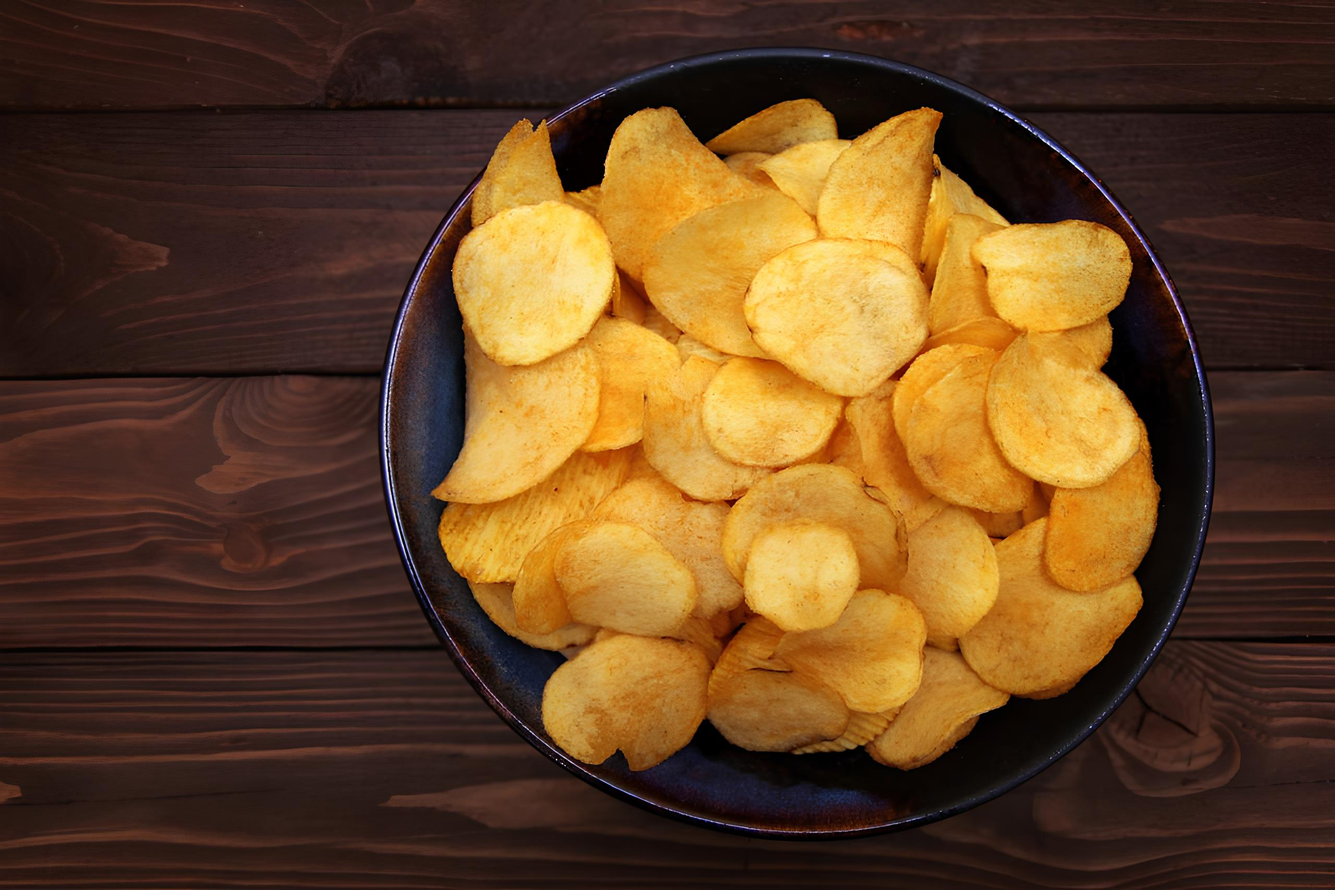
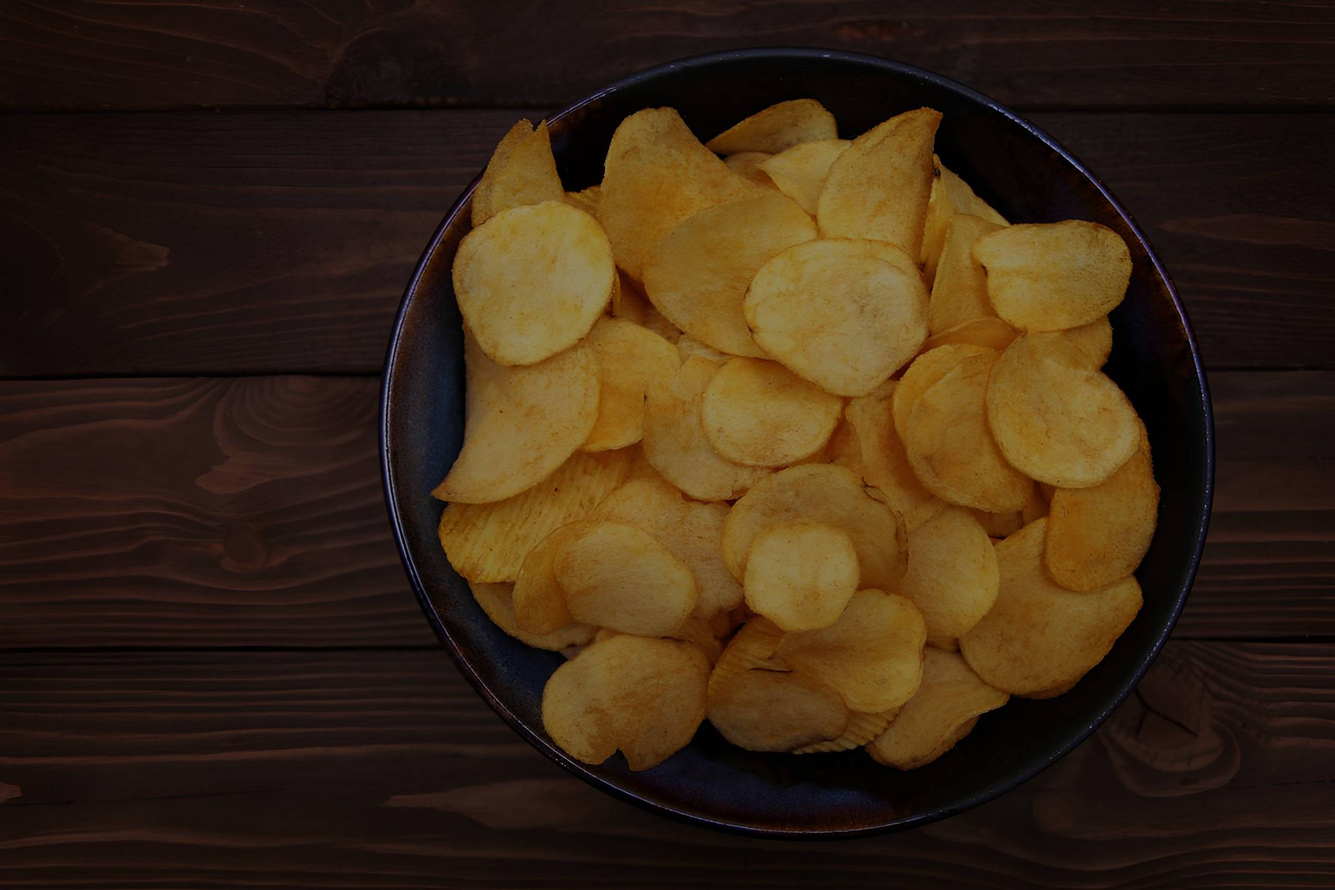
update tampilan 2

diff --git a/style.css b/style.css
@@ -2,6 +2,15 @@
     margin: 0;
     padding:-0;
 }
+body{
+    background-position: center;
+    background-image: url(assets/main-background.jpeg);
+    background-size: contain;
+    font-family: "Rubik", serif;
+  font-optical-sizing: auto;
+  font-weight: <weight>;
+  font-style: normal;
+}
 /* =================================================================================================================================================================================================
 ============ NAVBAR STYLE ===================================================================================================================================================================
 ================================================================================================================================================================================================== */
@@ -36,7 +45,7 @@
 }
 
 .navbar-item > .about-navbar{
-    font-family: Verdana, Geneva, Tahoma, sans-serif;
+    /* font-family: Verdana, Geneva, Tahoma, sans-serif; */
     text-decoration: none;
     color: rgb(201, 67, 66);
 }
@@ -53,6 +62,10 @@
 /* =================================================================================================================================================================================================
 ============ NAVBAR STYLE END ===================================================================================================================================================================
 ================================================================================================================================================================================================== */
+
+
+
+
 
 
 
@@ -96,19 +109,19 @@
     flex-direction: column;
     justify-content: center;
     align-items: center;
-    font-family: Verdana, Geneva, Tahoma, sans-serif;
-    /* background-color: rgb(201, 67, 66); */
+    /* font-family: Verdana, Geneva, Tahoma, sans-serif; */
+    background-color: white;
 }
 
 .about-wrapper > .about-text{
     width: 900px;
-    font-family: Verdana, Geneva, Tahoma, sans-serif;
+    /* font-family: Verdana, Geneva, Tahoma, sans-serif; */
     margin-top: 100px;
     margin-left: 20px;
 }
 
 .about-wrapper > .about-text > .about-title{
-    font-family: Verdana, Geneva, Tahoma, sans-serif;
+    /* font-family: Verdana, Geneva, Tahoma, sans-serif; */
     text-transform: capitalize;
     color: black;
     text-align: center;
@@ -117,7 +130,7 @@
 
 .about-wrapper > .about-text > .about-info{
     font-size: 20px;
-    font-family: Verdana, Geneva, Tahoma, sans-serif;
+    /* font-family: Verdana, Geneva, Tahoma, sans-serif; */
     text-transform: capitalize;
     color: black;
     text-align: center;
@@ -132,14 +145,15 @@
     width: 400px;
     font-size: 20px;
     text-align: center;
-    font-family: Verdana, Geneva, Tahoma, sans-serif;
+   
+    /* font-family: Verdana, Geneva, Tahoma, sans-serif; */
 }
 
 .mark-text{
     padding: 5px;
     border-radius: 5px;
     color: black;
-    background-color: rgb(242, 188, 40);
+    background-color: rgb(201, 67, 66);
 }
 /* =================================================================================================================================================================================================
 ============ ABOUT STYLE END ===================================================================================================================================================================
@@ -162,10 +176,9 @@
 ============ PRODUCT STYLE ===================================================================================================================================================================
 ================================================================================================================================================================================================== */
 .product-wrapper{
-    font-family: Verdana, Geneva, Tahoma, sans-serif;
+    /* font-family: Verdana, Geneva, Tahoma, sans-serif; */
     padding-left: 50px;
     padding-right: 50px;
-    /* background-color:  rgb(242, 188, 40); */
 }
 
 .product-text{
@@ -180,9 +193,14 @@
     border-radius: 10px ;
     display: flex;
     justify-content: space-between;
+    background-color:  transparent;
+    backdrop-filter: blur(5px);
 }
 
 .singkong-h1{
+    font-family: "Charm", serif;
+  font-weight: 700;
+  font-style: normal;
     color: rgb(201, 67, 66) ;
 }
 
@@ -192,6 +210,15 @@
     border-radius: 10px ;
     display: flex;
     justify-content: space-between;
+    background-color:  transparent;
+    backdrop-filter: blur(5px);
+}
+
+.pangsit-h1{
+    font-family: "Charm", serif;
+    font-weight: 700;
+    font-style: normal;
+    color: rgb(242, 188, 40);
 }
 
 .peyek{
@@ -200,6 +227,15 @@
     border-radius: 10px ;
     display: flex;
     justify-content: space-between;
+    background-color:  transparent;
+    backdrop-filter: blur(5px);
+}
+
+.peyek-h1{
+    font-family: "Charm", serif;
+    font-weight: 700;
+    font-style: normal;
+      color: rgb(201, 67, 66) ;
 }
 
 .basreng{
@@ -209,6 +245,15 @@
     border-radius: 10px ;
     display: flex;
     justify-content: space-between;
+    background-color:  transparent;
+    backdrop-filter: blur(5px);
+}
+
+.basreng-h1{
+    font-family: "Charm", serif;
+    font-weight: 700;
+    font-style: normal;
+    color: rgb(242, 188, 40);
 }
 
 
@@ -286,8 +331,8 @@
     background-position: center;
   background-repeat: no-repeat;
   background-size: cover;
-    font-family: Verdana, Geneva, Tahoma, sans-serif;
 }
+
 
 .contact-teks{
     color: white;
@@ -303,12 +348,13 @@
 }
 
 .btn1{
-    border: 2px solid white;
+    border: 1px solid white;
     border-radius: 10px;
     padding: 10px;
     color: white;
     font-weight: bold;
     background-color: transparent;
+    backdrop-filter: blur(5px);
 }
 
 
@@ -343,9 +389,10 @@
     display: flex;
     justify-content: space-between;
     align-items: center;
-  font-family: Verdana, Geneva, Tahoma, sans-serif;
+  /* font-family: Verdana, Geneva, Tahoma, sans-serif; */
   padding-right: 20px;
   padding-left: 20px;
+  background-color: white;
 }
 
 .footer-sticker{

diff --git a/index.html b/index.html
@@ -8,7 +8,12 @@
     <link rel="stylesheet" href="style.css">
     <link rel="preconnect" href="https://fonts.googleapis.com">
 <link rel="preconnect" href="https://fonts.gstatic.com" crossorigin>
-<link href="https://cdn.jsdelivr.net/npm/bootstrap@5.3.3/dist/css/bootstrap.min.css" rel="stylesheet" integrity="sha384-QWTKZyjpPEjISv5WaRU9OFeRpok6YctnYmDr5pNlyT2bRjXh0JMhjY6hW+ALEwIH" crossorigin="anonymous">
+<link rel="preconnect" href="https://fonts.googleapis.com">
+<link rel="preconnect" href="https://fonts.gstatic.com" crossorigin>
+<link rel="preconnect" href="https://fonts.googleapis.com">
+<link rel="preconnect" href="https://fonts.gstatic.com" crossorigin>
+<link href="https://fonts.googleapis.com/css2?family=Charm:wght@400;700&family=Rubik:wght@300..900&display=swap" rel="stylesheet">
+<link href="https://fonts.googleapis.com/css2?family=Rubik:ital,wght@0,300..900;1,300..900&display=swap" rel="stylesheet">
 <link rel="stylesheet" href="https://cdnjs.cloudflare.com/ajax/libs/font-awesome/6.7.1/css/all.min.css" integrity="sha512-5Hs3dF2AEPkpNAR7UiOHba+lRSJNeM2ECkwxUIxC1Q/FLycGTbNapWXB4tP889k5T5Ju8fs4b1P5z/iB4nMfSQ==" crossorigin="anonymous" referrerpolicy="no-referrer" />
 </head>
 <body>
@@ -22,8 +27,8 @@
           <a class="navbar-brand fs-3 fw-bold" href="#"><img src="assets/brand.png" alt="" width="100" height="50" ></a>
         </div>
         <div class="navbar-item">
-          <a class="about-navbar fs-5 fw-bold" href="#">ABOUT</a>
-          <a class="product-navbar fs-5 fw-bold" href="product.html">PRODUCT</a>
+          <a class="about-navbar fs-5 fw-bold" href="#">HOME</a>
+          <a class="product-navbar fs-5 fw-bold" href="product.html">SHOP</a>
         </div>
       </div>
 <!-- =================================================================================================================================================================================================
@@ -36,6 +41,16 @@
 
 
 
+
+
+
+
+
+
+
+<!-- =================================================================================================================================================================================================
+============ CAROUSEL ===================================================================================================================================================================
+================================================================================================================================================================================================== -->
 <div id="carouselExampleIndicators" class="carousel slide">
   <div class="carousel-indicators">
     <button type="button" data-bs-target="#carouselExampleIndicators" data-bs-slide-to="0" class="active" aria-current="true" aria-label="Slide 1"></button>
@@ -62,7 +77,9 @@
     <span class="visually-hidden">Next</span>
   </button>
 </div>
-
+<!-- =================================================================================================================================================================================================
+============ CAROUSEL END ===================================================================================================================================================================
+================================================================================================================================================================================================== -->
 
 
 
@@ -148,7 +165,7 @@ Dalam hal ini KSU sudah memposisikan diri sebagai holding company bagi
 <div class="product-wrapper">
   <div class="singkong">
     <div class="singkong-img">
-      <img src="assets/Produkpng/hero3.png" alt="" width="500px" height="500px">
+      <img src="assets/Produkpng/hero3.png" alt="" width=" 300px" height=" 300px">
     </div>
 
     <section class="product-text">
@@ -179,14 +196,14 @@ Dalam hal ini KSU sudah memposisikan diri sebagai holding company bagi
     </section>
 
     <div class="pangsit-img">
-      <img src="assets/Produkpng/hero2.png" alt=""  width="500px" height="500px">
+      <img src="assets/Produkpng/hero2.png" alt=""  width=" 300px" height=" 300px">
     </div>
   </div>
 
 
   <div class="peyek">
     <div class="peyek-img">
-      <img src="assets/Produkpng/hero4 (1).png" alt=""  width="500px" height="500px">
+      <img src="assets/Produkpng/hero4 (1).png" alt=""  width=" 300px" height=" 300px">
     </div>
 
     <section class="product-text">
@@ -217,7 +234,7 @@ Dalam hal ini KSU sudah memposisikan diri sebagai holding company bagi
     </section>
 
     <div class="basreng-img">
-      <img src="assets/Produkpng/hero1.png" alt="" width="500px" height="500px" >
+      <img src="assets/Produkpng/hero1.png" alt="" width=" 300px" height=" 300px" >
     </div>
   </div>
 </div>
@@ -359,6 +376,6 @@ Dalam hal ini KSU sudah memposisikan diri sebagai holding company bagi
 
     </script>
         <script src="https://cdn.jsdelivr.net/npm/bootstrap@5.0.2/dist/js/bootstrap.bundle.min.js" integrity="sha384-MrcW6ZMFYlzcLA8Nl+NtUVF0sA7MsXsP1UyJoMp4YLEuNSfAP+JcXn/tWtIaxVXM" crossorigin="anonymous"></script>
-        <script src="https://cdn.jsdelivr.net/npm/bootstrap@5.3.3/dist/js/bootstrap.bundle.min.js" integrity="sha384-YvpcrYf0tY3lHB60NNkmXc5s9fDVZLESaAA55NDzOxhy9GkcIdslK1eN7N6jIeHz" crossorigin="anonymous"></script>
+      
 </body>
 </html>
